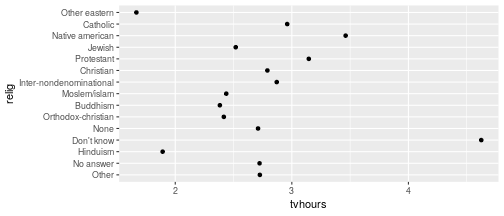
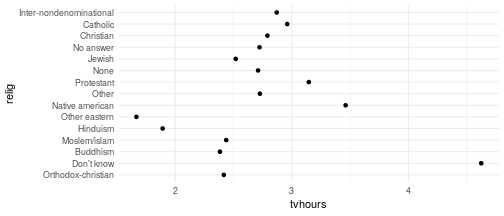
html changed?

diff --git a/02_r-intro/05_factors.html b/02_r-intro/05_factors.html
@@ -199,8 +199,7 @@ levels(gss_cat$race)
 ```
 
 ```
-## [1] "Other"          "Black"          "White"         
-## [4] "Not applicable"
+## [1] "Other"          "Black"          "White"          "Not applicable"
 ```
 
 &lt;br/&gt;
@@ -321,14 +320,12 @@ levels(gss_cat$relig)
 ```
 
 ```
-##  [1] "Other"                   "No answer"              
-##  [3] "Hinduism"                "Don't know"             
-##  [5] "None"                    "Orthodox-christian"     
-##  [7] "Buddhism"                "Moslem/islam"           
-##  [9] "Inter-nondenominational" "Christian"              
-## [11] "Protestant"              "Jewish"                 
-## [13] "Native american"         "Catholic"               
-## [15] "Other eastern"           "Not applicable"
+##  [1] "Orthodox-christian"      "Don't know"              "Not applicable"         
+##  [4] "Buddhism"                "Moslem/islam"            "Hinduism"               
+##  [7] "Other eastern"           "Native american"         "Other"                  
+## [10] "Protestant"              "None"                    "Jewish"                 
+## [13] "No answer"               "Christian"               "Catholic"               
+## [16] "Inter-nondenominational"
 ```
 
 manually (⚠ extremely sensitive to typos):
@@ -339,14 +336,12 @@ levels(factor(gss_cat$relig, levels=c("Moslem/islam", "Hinduism", "Buddhism", "O
 ```
 
 ```
-##  [1] "Moslem/islam"            "Hinduism"               
-##  [3] "Buddhism"                "Other eastern"          
-##  [5] "Jewish"                  "Christian"              
-##  [7] "Orthodox-christian"      "Catholic"               
-##  [9] "Protestant"              "Inter-nondenominational"
-## [11] "Native american"         "Other"                  
-## [13] "None"                    "No answer"              
-## [15] "Don't know"              "Not applicable"
+##  [1] "Moslem/islam"            "Hinduism"                "Buddhism"               
+##  [4] "Other eastern"           "Jewish"                  "Christian"              
+##  [7] "Orthodox-christian"      "Catholic"                "Protestant"             
+## [10] "Inter-nondenominational" "Native american"         "Other"                  
+## [13] "None"                    "No answer"               "Don't know"             
+## [16] "Not applicable"
 ```
 
 ---
@@ -381,14 +376,12 @@ levels(reorder(gss_cat$relig, gss_cat$tvhours, na.rm=TRUE))
 ```
 
 ```
-##  [1] "Other eastern"           "Hinduism"               
-##  [3] "Buddhism"                "Orthodox-christian"     
-##  [5] "Moslem/islam"            "Jewish"                 
-##  [7] "None"                    "No answer"              
-##  [9] "Other"                   "Christian"              
-## [11] "Inter-nondenominational" "Catholic"               
-## [13] "Protestant"              "Native american"        
-## [15] "Don't know"              "Not applicable"
+##  [1] "Other eastern"           "Hinduism"                "Buddhism"               
+##  [4] "Orthodox-christian"      "Moslem/islam"            "Jewish"                 
+##  [7] "None"                    "No answer"               "Other"                  
+## [10] "Christian"               "Inter-nondenominational" "Catholic"               
+## [13] "Protestant"              "Native american"         "Don't know"             
+## [16] "Not applicable"
 ```
 
 &lt;br/&gt;
@@ -461,11 +454,10 @@ levels(gss_cat$partyid)
 ```
 
 ```
-##  [1] "No answer"          "Don't know"        
-##  [3] "Other party"        "Strong republican" 
-##  [5] "Not str republican" "Ind,near rep"      
-##  [7] "Independent"        "Ind,near dem"      
-##  [9] "Not str democrat"   "Strong democrat"
+##  [1] "No answer"          "Don't know"         "Other party"       
+##  [4] "Strong republican"  "Not str republican" "Ind,near rep"      
+##  [7] "Independent"        "Ind,near dem"       "Not str democrat"  
+## [10] "Strong democrat"
 ```
 
 
@@ -476,11 +468,10 @@ levels(gss_cat$partyid)
 ```
 
 ```
-##  [1] "No answer"          "Not sure"          
-##  [3] "Other party"        "Strong republican" 
-##  [5] "Not str republican" "Ind,near rep"      
-##  [7] "Independent"        "Ind,near dem"      
-##  [9] "Not str democrat"   "Strong democrat"
+##  [1] "No answer"          "Not sure"           "Other party"       
+##  [4] "Strong republican"  "Not str republican" "Ind,near rep"      
+##  [7] "Independent"        "Ind,near dem"       "Not str democrat"  
+## [10] "Strong democrat"
 ```
 
 ---
@@ -497,11 +488,10 @@ levels(gss_cat$partyid)
 ```
 
 ```
-##  [1] "No answer"          "Not sure"          
-##  [3] "Other party"        "Strong republican" 
-##  [5] "Not str republican" "Ind,near rep"      
-##  [7] "Independent"        "Ind,near dem"      
-##  [9] "Not str democrat"   "Strong democrat"
+##  [1] "No answer"          "Not sure"           "Other party"       
+##  [4] "Strong republican"  "Not str republican" "Ind,near rep"      
+##  [7] "Independent"        "Ind,near dem"       "Not str democrat"  
+## [10] "Strong democrat"
 ```
 
 
@@ -515,11 +505,10 @@ levels(partyid2)
 ```
 
 ```
-##  [1] "No answer"             "Not sure"             
-##  [3] "Other party"           "Republican, strong"   
-##  [5] "Republican, weak"      "Independent, near rep"
-##  [7] "Independent"           "Independent, near dem"
-##  [9] "Democrat, weak"        "Democrat, strong"
+##  [1] "No answer"             "Not sure"              "Other party"          
+##  [4] "Republican, strong"    "Republican, weak"      "Independent, near rep"
+##  [7] "Independent"           "Independent, near dem" "Democrat, weak"       
+## [10] "Democrat, strong"
 ```
 
 ---
@@ -553,10 +542,8 @@ summary(relig2)
 ```
 
 ```
-##       None  Christian Protestant     Jewish   Catholic 
-##       3523        689      10846        388       5124 
-##      Other 
-##        913
+## Protestant       None     Jewish  Christian   Catholic      Other 
+##      10846       3523        388        689       5124        913
 ```
 
 ---
